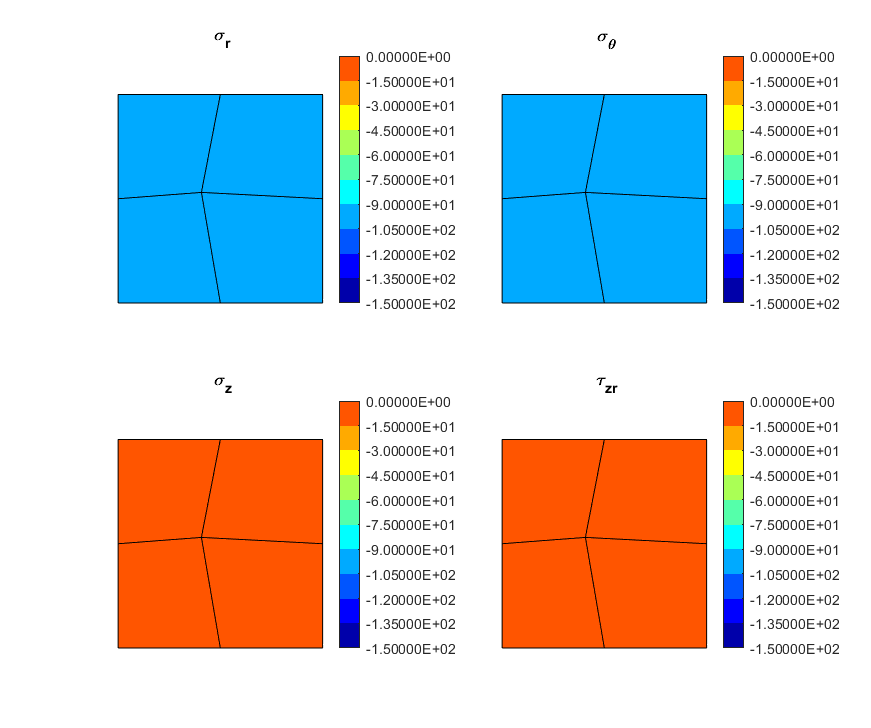
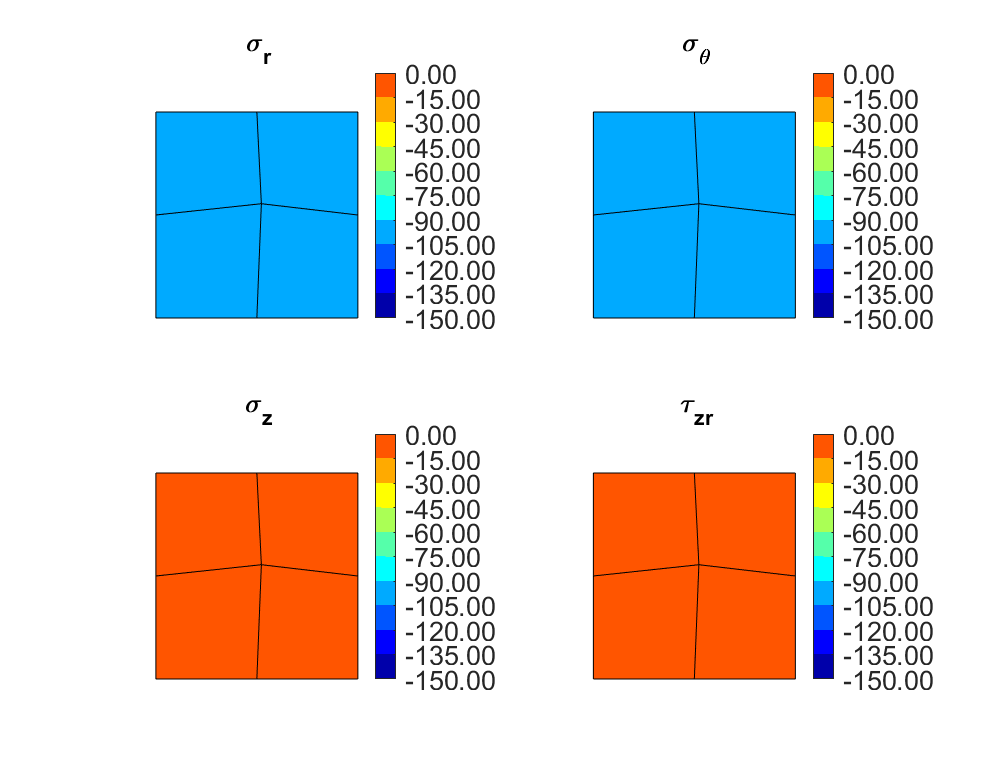
pre entrega

diff --git a/casePatchTest.m b/casePatchTest.m
@@ -4,10 +4,10 @@ clear; close all; set(0,'DefaultFigureWindowStyle','docked');
 E = 200e3; nu = 0.3;
 pressureNormal = 100;
 a = 1; b = 2;  h = 1;
-nElementsZ = 2; nElementsR = 2;  distorsion = 0;   
+nElementsZ = 2; nElementsR = 2;  distorsion = 0.5;   
 numbering = 'Yes'; % Yes/No
 tol = 0.1; 
-caso = 2;
+caso = 3;
 
 %% Preprocess
 
@@ -116,16 +116,16 @@ meshPlot(elements,nodes+magnificationFactor*reshape(displacementsVector,nDimensi
 
 % Stresses plot
 figure;
-subplot(2,2,1); title('\sigma_{r}','Interpreter','tex')
+subplot(2,2,1); title('\sigma_{r}','Interpreter','tex','FontSize',16)
 meshPlot(elements,nodes+magnificationFactor*reshape(displacementsVector,nDimensions,nNodes)','b','No');
 bandPlot(elements,nodes+magnificationFactor*reshape(displacementsVector,nDimensions,nNodes)',squeeze(elementStressAtGaussPoints(:,:,1)),[-150 0]);
-subplot(2,2,2); title('\sigma_{\theta}','Interpreter','tex')
+subplot(2,2,2); title('\sigma_{\theta}','Interpreter','tex','FontSize',16)
 meshPlot(elements,nodes+magnificationFactor*reshape(displacementsVector,nDimensions,nNodes)','b','No');
 bandPlot(elements,nodes+magnificationFactor*reshape(displacementsVector,nDimensions,nNodes)',squeeze(elementStressAtGaussPoints(:,:,2)),[-150 0]);
-subplot(2,2,3); title('\sigma_{z}','Interpreter','tex')
+subplot(2,2,3); title('\sigma_{z}','Interpreter','tex','FontSize',16)
 meshPlot(elements,nodes+magnificationFactor*reshape(displacementsVector,nDimensions,nNodes)','b','No');
 bandPlot(elements,nodes+magnificationFactor*reshape(displacementsVector,nDimensions,nNodes)',squeeze(elementStressAtGaussPoints(:,:,3)),[-150 0]);
-subplot(2,2,4); title('\tau_{zr}','Interpreter','tex')
+subplot(2,2,4); title('\tau_{zr}','Interpreter','tex','FontSize',16)
 meshPlot(elements,nodes+magnificationFactor*reshape(displacementsVector,nDimensions,nNodes)','b','No');
 bandPlot(elements,nodes+magnificationFactor*reshape(displacementsVector,nDimensions,nNodes)',squeeze(elementStressAtGaussPoints(:,:,4)),[-150 0]);
 

diff --git a/zunchado.m b/zunchado.m
@@ -5,7 +5,7 @@ a = 300; %mm, radio interior
 sigma_y = 250; %Mpa
 p = 100; %Mpa
 FS = 1;
-tapasFlag = 0; % tapas serian los casquetes, si no hay la tension en z es distinta
+tapasFlag = 1; % tapas serian los casquetes, si no hay la tension en z es distinta
 planeStrainFlag = 0;
 % para solo zunchado
 % tapasFlag = 0; planeStrainFlag = 0;

diff --git a/caseConvergenciaMalla.m b/caseConvergenciaMalla.m
@@ -37,7 +37,9 @@ nDimensions=2;              % Problem dimension
 
 % import NX mesh
 msh = impq4(mshTxt);
+msh = impq4('final_ref_7.dat')
 nodes = msh.nodes; elements = msh.elements;
+size(elements,1)
 loads = impLoadsNX(loadsTxt);
 %
 
